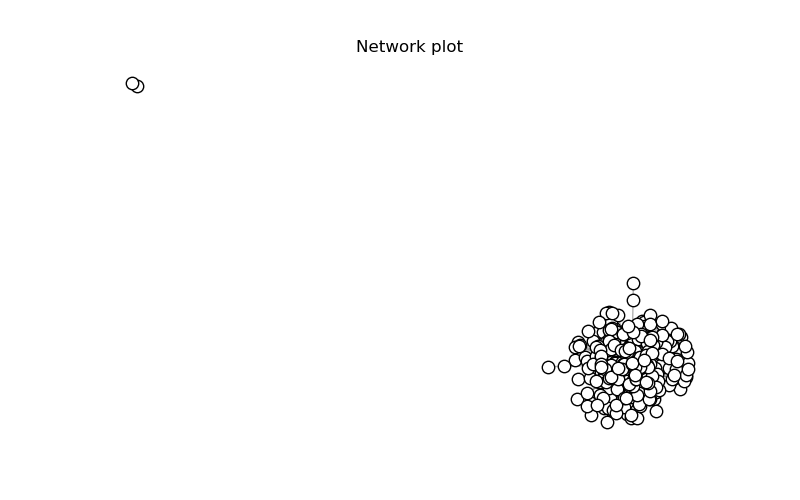
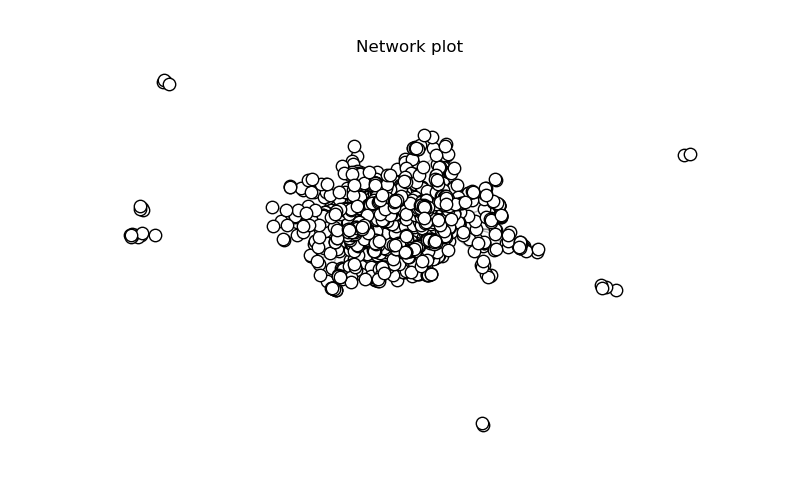
Generated statistics on new dataset

diff --git a/tests/test_global.py b/tests/test_global.py
@@ -1,0 +1,40 @@
+from csv import reader
+from networkx import from_edgelist
+from utilities.statistics import degree_distribution
+from matplotlib.pyplot import figure, show
+
+bad_count = 0
+
+with open('../data/routes.dat') as fl:
+    fl_reader = reader(fl)
+    data = []
+
+    for i, line in enumerate(fl_reader):
+        try:
+            source = int(line[3])
+            dest = int(line[5])
+
+            data.append((source, dest))
+        except ValueError:
+            bad_count += 1
+            # print('Bad parse', line)
+
+        # if i > 15:
+        #     break
+
+# dat = array(data)
+print('Data pulled')
+
+net = from_edgelist(data)
+print('Network generated')
+
+# plot_network(net, netx_plot=True)
+# print('Network plotted')
+
+dist = degree_distribution(net)
+
+fig = figure()
+ax = fig.gca()
+ax.hist(dist, bins=20)
+ax.set_yscale('log')
+show()

diff --git a/utilities/statistics.py b/utilities/statistics.py
@@ -1,5 +1,5 @@
 from networkx import closeness_centrality, degree
-from numpy import zeros, min, max
+from numpy import zeros, histogram
 
 
 def degree_distribution(network):
@@ -10,6 +10,11 @@ def degree_distribution(network):
         node_degree[i] = node[1]
 
     return node_degree
+
+
+def degree_frequency(source, net_source=False):
+    node_degree = source if not net_source else degree_distribution(source)
+    return histogram(node_degree)
 
 
 def centrality_distribution(network):

diff --git a/data/README.md b/data/README.md
@@ -1,0 +1,31 @@
+# Data formats
+
+* `routes.dat`
+    * Airline 
+    * Airline ID
+    * Source airport
+    * Source airport ID 
+    * Destination airport 
+    * Destination airport ID 
+    * Codeshare 
+    * Stops 
+    * Equipment
+* `airports.dat`
+    * Airport ID 
+    * Name
+    * City
+    * Country or territory
+    * IATA
+    * ICAO
+    * Latitude
+    * Longitude
+    * Altitude
+    * Timezone
+    * DST
+    * Tz
+    * Type
+    * Source
+* `us_airports.dat`
+    * Flight source
+    * Flight destination
+    * Number of flights per year
